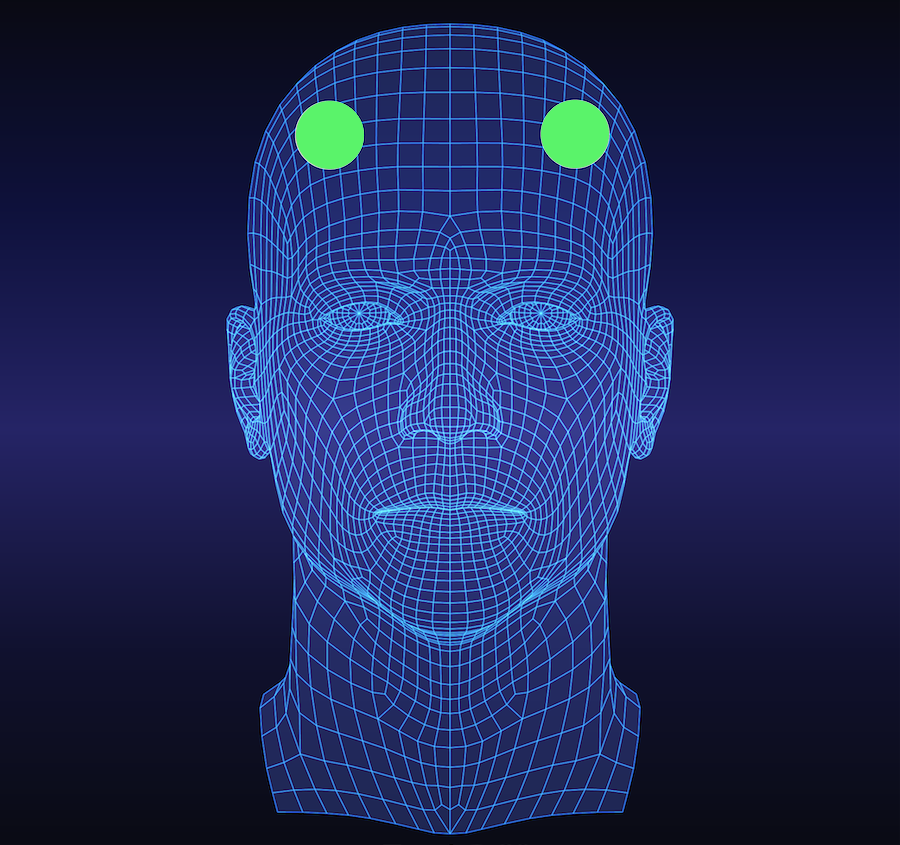
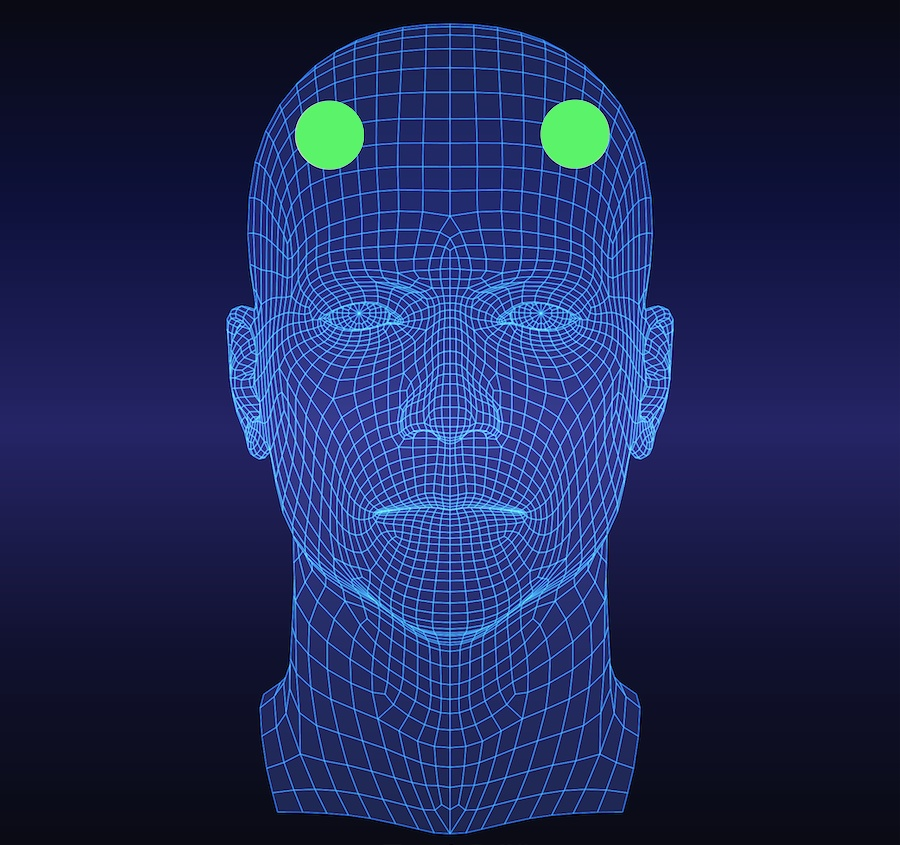
修改佩戴图示

Changed region(s): [[0.2489, 0.0, 0.7467, 1.0]]

diff --git a/tDCS/docs/使用教程/头戴使用/如何佩戴.md b/tDCS/docs/使用教程/头戴使用/如何佩戴.md
@@ -10,12 +10,10 @@ hide_title: true
 - 小状元记忆头戴的激活位点如上图。每次使用前确保激活位点附近的头皮/皮肤干净整洁，无痘痘、粉刺、湿疹、疱疹、痤疮、水泡、囊肿、结痂、红肿、烫伤、脓肿等破损/创伤。如果有涂抹药品/护发产品/化妆品等，请先用湿巾清洁。
 - 取下发夹、发箍等佩戴物。
 - 如果前额头发较多，建议先用发圈整理好头发，使前额头发整齐。
-- 从前往后佩戴头戴，头戴分左右，正确佩戴时充电口位于左侧；「小状元」logo 正向朝上，位于头梁右侧。
+- 从前往后佩戴头戴，头戴分左右，正确佩戴时充电口位于左侧，「小状元」logo 正向朝上，位于头梁右侧。
 - 通过调整头梁角度和伸缩杆长度，将头戴佩戴于激活位点。
 - 可通过镜子，或由家人帮忙确认佩戴位置正确。正面看头戴两侧圆盘左右对称，头戴不会过低，头戴两圆盘距离不会过近。  
 
-![wear_headset_correctly1](media/wear_headset_correctly1.png)
-![wear_headset_incorrectly](media/wear_headset_incorrectly.png)  
-
+![wear_headset1](media/wear_headset1.png)
 - 调节头戴圆盘角度，均匀按压头戴，使海绵片和与头皮/皮肤充分接触。
 - 按压后仍然未接触好，可以调整头戴位置，佩戴于发际线附近。
